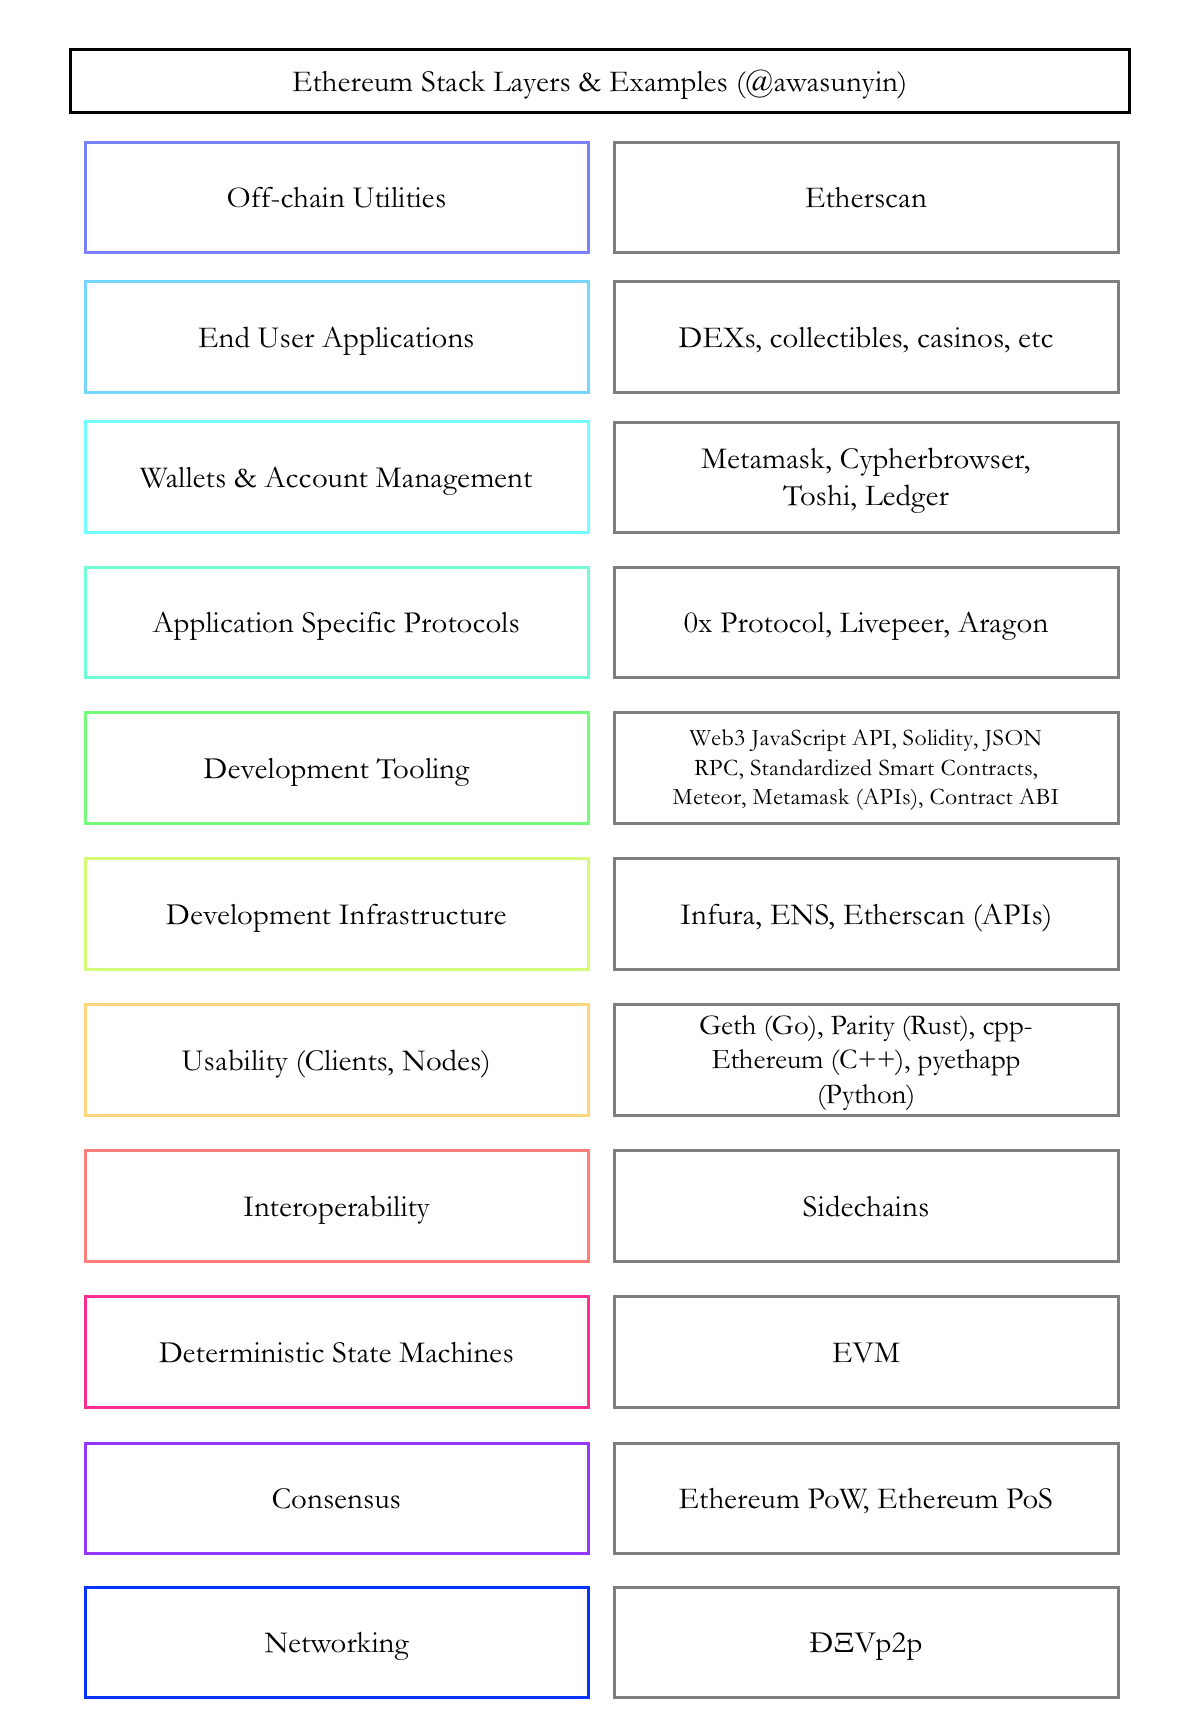
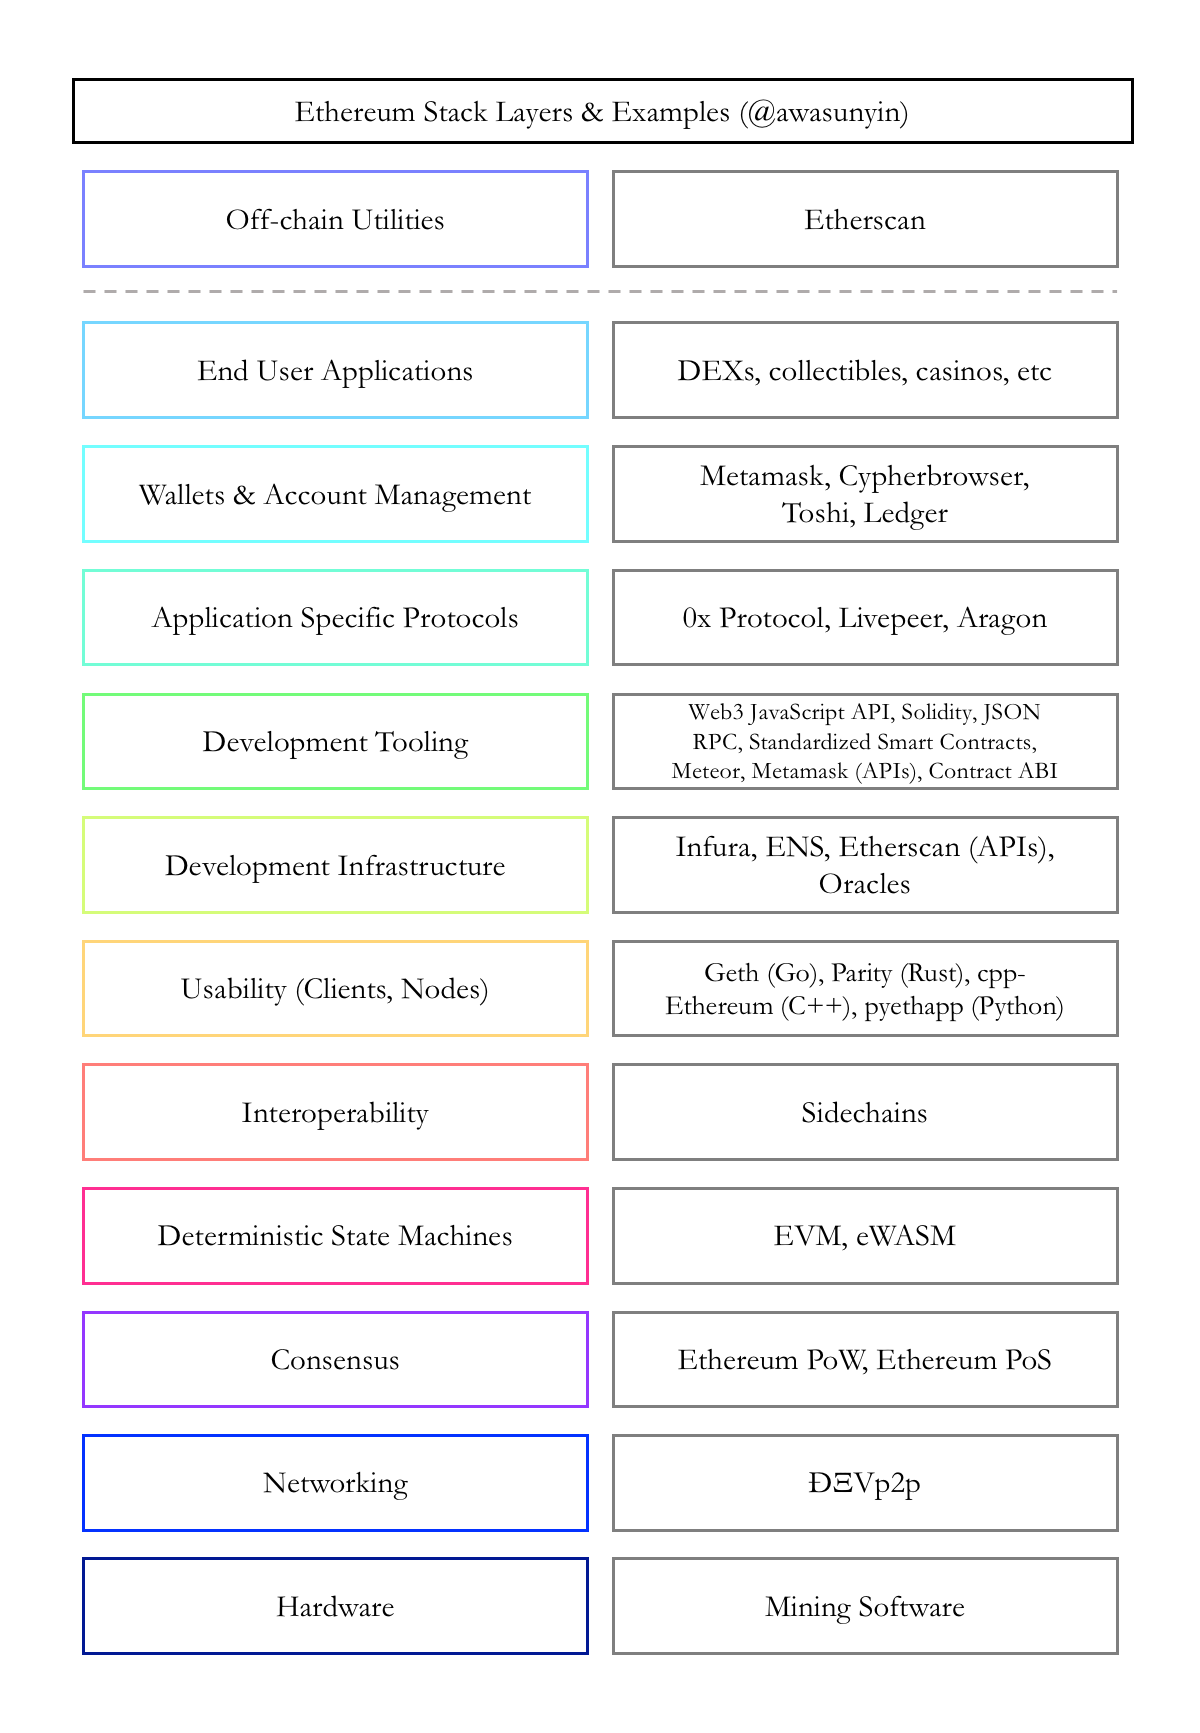
integrated cass' and jae's feedback on the ethercosystem.png, edited README.md with new structure

Changed region(s): [[0.0617, 0.0312, 0.9558, 0.966], [0.0308, 0.0312, 0.0617, 0.0623]]

diff --git a/README.md b/README.md
@@ -2,16 +2,57 @@
 This repository is dedicated to collect and display resources that contribute to an objective mapping or overview of the Ethereum ecosystem.
 
 ## Background & Motivations
-Sometimes, for both newcomers and seniors of the Ethereum community, it can be hard to keep track of the latest advances, as well as the latest conversations concerning research. At the same time, the community lacks access to a data-driven, objective mapping of the Ethereum ecosystem. From the ECF's perspective, we wish to build automated or semi-automated tools that
-provide an objective overview of the ecosystem, so community members can see in what layers, areas or tooling Ethereum is lacking. For grant managers at the ECF, this overview can be helpful for prioritising research and development in those areas that are essential but less attractive, distribute funding in a balanced manner, and strive for diversity of projects vertically along the stack, and horizontally, in terms of implementations. 
+Sometimes, for both newcomers and seniors of the Ethereum community, it can be hard to keep track of the latest advances, as well as the latest conversations concerning research. At the same time, the community lacks access to a data-driven, objective mapping of the Ethereum ecosystem. 
+From the ECF's perspective, we wish to build automated or semi-automated tools that
+provide an objective overview of the state of the ecosystem, so community members can see in what layers, areas or tooling Ethereum is lacking. 
+For grant managers at the ECF, this overview can be helpful for prioritising research and development in those areas that are essential but less attractive, distribute funding in a balanced manner, and strive for diversity of projects vertically along the stack, and horizontally, in terms of implementations. 
 
-## Taxonomy (V.0)
-Taxonomies are an useful way of presenting information in a visual and concise manner. At the same time, they are not perfect, as there will always be projects or cases that do not fit limitedly to one layer, as well as others that fit at the same time in more than one layer. 
-The following is the first version of a taxonomy of projects in the ethereum ecosystem.
-
-### Ethereum Stack
-Note that all the projects mentioned serve as examples only of each layer.
+## Taxonomy (V.0.2)
+Taxonomies are an useful way of presenting information in a visual and concise manner. Nonetheless, they are not perfect, as there will always be projects or cases that do not fit limitedly to one layer, as well as others that fit at the same time in more than one layer. 
+For illustration purposes, the following is one of the first iterations of a taxonomy of projects in the ethereum ecosystem.
+<aside class="notice">
+Note that all the projects mentioned serve as examples only of each layer, by no means are these mentions any kind of endorsement.
+</aside>
 ![Ethercosystem Taxonomy](https://github.com/EthereumCommunityFund/ethereum-ecosystem-map/blob/master/figures/ethercosystem.png)
 
+## Table of Contents
+0. [How to Contribute?](#how-to-contribute)
+1. [Hardware](#hardware)
+2. [Networking](#networking)
+3. [Consensus](#consensus)
+4. [Deterministic State Machines](#deterministic-state-machines)
+5. [Interoperability](#interoperability)
+6. [Usability](#usability)
+7. [Development Infrastructure](#development-infrastructure)
+8. [Development Tooling](#development-tooling)
+9. [Application Specific Protocols](#application-specific-protocols)
+10.[Wallets & Account management](#wallets-and-account-management)
+11.[End User Applications](#end-user-applications)
+12.[Off-Chain Utilities](#off-chain-utilities)
+
+### How to Contribute?
+
+### Hardware
+
+### Networking
+
+### Consensus
+
+### Deterministic State Machines
+
+### Interoperability
+
+### Usability
+
+### Development Infrastructure
+
+### Development Tooling
+
+### Application Specific Protocols
+
+### Wallets and Account Management
+
 ### End User Applications
+
+### Off-Chain Utilities
 
